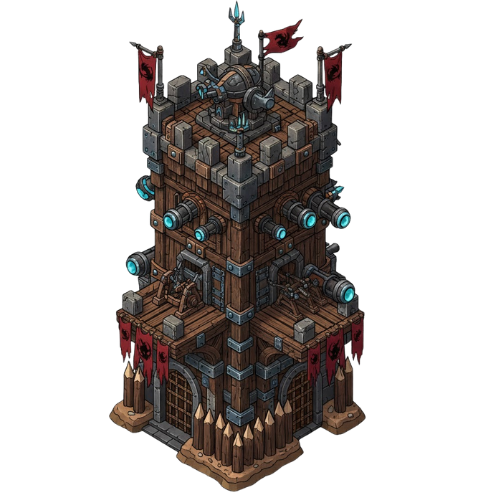
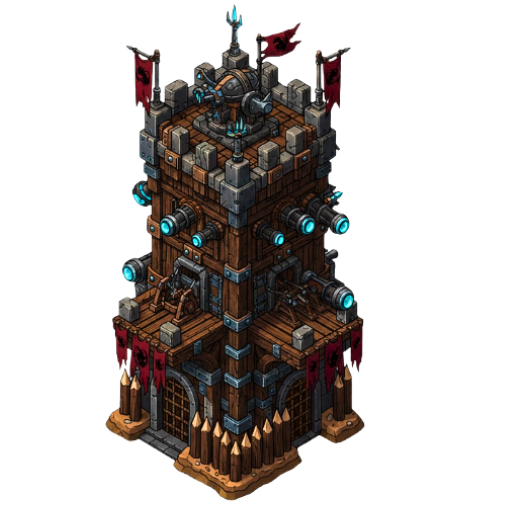
City layout improvements and building positions

Changed region(s): [[0.21, 0.0, 0.75, 0.99]]

diff --git a/index.html b/index.html
@@ -116,6 +116,9 @@
   position: relative;
   overflow: hidden;
 }
+#city-map-container {
+  background: #121a2f;
+}
 
 
 .right-arrow-menu {
@@ -6098,32 +6101,34 @@ function enterCity() {
     cityMapContainer.style.top = "80px";
     cityMapContainer.style.left = "0";
     cityMapContainer.style.right = "0";
-    cityMapContainer.style.bottom = "60px";
+    cityMapContainer.style.height = "calc(100vh - 140px)";
     cityMapContainer.style.overflowY = "auto";
     cityMapContainer.style.overflowX = "hidden";
     cityScreen.appendChild(cityMapContainer);
   }
 
-  if (!document.getElementById("city-bg")) {
-    const cityMap = document.createElement("img");
-    cityMap.id = "city-bg";
-    cityMap.src = "city-bg.png";
-    cityMap.style.width = "100%";
-    cityMap.style.height = "1000px";
-    cityMap.style.minHeight = "1000px";
-    cityMap.style.objectFit = "fill";
-    cityMap.style.position = "relative";
-    cityMap.style.display = "block";
-    cityMapContainer.appendChild(cityMap);
+if (!document.getElementById("city-bg")) {
+  const cityMap = document.createElement("img");
+  cityMap.id = "city-bg";
+  cityMap.src = "city-bg.png";
+  cityMap.style.width = "100%";
+  cityMap.style.height = "1000px";
+  cityMap.style.objectFit = "cover";
+  cityMap.style.display = "block";
+  cityMap.style.position = "relative";
+  cityMapContainer.appendChild(cityMap);
+
+
+
 
 
    // القلعة في النص
 const castleWrapper = document.createElement("div");
 castleWrapper.id = "castle-building";
 castleWrapper.style.position = "absolute";
-castleWrapper.style.width = "170px";
+castleWrapper.style.width = "210px";
 castleWrapper.style.left = "50%";
-castleWrapper.style.top = "55%";
+castleWrapper.style.top = "58%";
 castleWrapper.style.transform = "translate(-50%, -50%)";
 castleWrapper.style.zIndex = 100;
 
@@ -6158,17 +6163,17 @@ cityMapContainer.appendChild(castleWrapper);
 
 
 const buildingPositions = [
-  { left: "25%", top: "25%" },  // 1 - منجم الذهب
-  { left: "65%", top: "20%" },  // 2 - منجم الخشب
-  { left: "15%", top: "55%" },  // 3 - المدرسة
-  { left: "85%", top: "55%" },  // 4 - برج الهجوم
-  { left: "20%", top: "35%" },  // 5 - برج الدفاع
-  { left: "80%", top: "35%" },  // 6 - مزرعة اللحم
-  { left: "20%", top: "115%" }, // 7 - قاعة الأبطال
-  { left: "50%", top: "110%" }, // 8 - السوق
-  { left: "80%", top: "115%" }, // 9 - برج البوست
-  { left: "30%", top: "145%" }, // 10 - المستشفى
-  { left: "70%", top: "145%" }, // 11 - برج التنانين
+  { left: "80%", top: "45%" },  // 1 - منجم الذهب
+  { left: "19%", top: "105%" },  // 2 - منجم الخشب
+  { left: "81%", top: "78%" },  // 3 - المدرسة
+  { left: "75%", top: "19%" },  // 4 - برج الهجوم
+  { left: "25%", top: "18%" },  // 5 - برج الدفاع
+  { left: "23%", top: "42%" },  // 6 - مزرعة اللحم
+  { left: "20%", top: "81%" }, // 7 - قاعة الأبطال
+  { left: "70%", top: "125%" }, // 8 - السوق
+  { left: "84%", top: "105%" }, // 9 - برج البوست
+  { left: "26%", top: "126%" }, // 10 - المستشفى
+{ left: "51%", top: "97%" }, // 11 - برج التنانين
 ];
 
 
@@ -6242,8 +6247,8 @@ const goldMine = document.getElementById("building-1");
 if (goldMine) {
   goldMine.style.border = "none";
   goldMine.style.background = "transparent";
-  goldMine.style.width = "120px";
-  goldMine.style.height = "140px";
+  goldMine.style.width = "130px";
+  goldMine.style.height = "150px";
   goldMine.style.position = "absolute";
   goldMine.style.left = buildingPositions[0].left;
   goldMine.style.top = buildingPositions[0].top;
@@ -6377,8 +6382,8 @@ if (woodMine) {
 
   woodMine.style.border = "none";
   woodMine.style.background = "transparent";
-  woodMine.style.width = "120px";
-  woodMine.style.height = "140px";
+  woodMine.style.width = "170px";
+  woodMine.style.height = "150px";
   woodMine.style.position = "absolute";
   woodMine.style.left = buildingPositions[1].left;
   woodMine.style.top = buildingPositions[1].top;
@@ -6521,7 +6526,7 @@ if (school) {
 
   school.style.border = "none";
   school.style.background = "transparent";
-  school.style.width = "100px";
+  school.style.width = "160px";
   school.style.height = "160px";
   school.style.position = "absolute";
   school.style.left = buildingPositions[2].left;
@@ -6637,8 +6642,8 @@ if (attackTower) {
 
   attackTower.style.border = "none";
   attackTower.style.background = "transparent";
-  attackTower.style.width = "200px";
-  attackTower.style.height = "180px";
+  attackTower.style.width = "240px";
+  attackTower.style.height = "200px";
   attackTower.style.position = "absolute";
   attackTower.style.left = buildingPositions[3].left;
   attackTower.style.top = buildingPositions[3].top;
@@ -6758,8 +6763,8 @@ if (defenseTower) {
 
   defenseTower.style.border = "none";
   defenseTower.style.background = "transparent";
-  defenseTower.style.width = "200px";
-  defenseTower.style.height = "180px";
+  defenseTower.style.width = "220px";
+  defenseTower.style.height = "200px";
   defenseTower.style.position = "absolute";
   defenseTower.style.left = buildingPositions[4].left;
   defenseTower.style.top = buildingPositions[4].top;
@@ -6873,8 +6878,8 @@ if (meatFarm) {
 
   meatFarm.style.border = "none";
   meatFarm.style.background = "transparent";
-  meatFarm.style.width = "170px";
-  meatFarm.style.height = "170px";
+  meatFarm.style.width = "180px";
+  meatFarm.style.height = "180px";
   meatFarm.style.position = "absolute";
   meatFarm.style.left = buildingPositions[5].left;
   meatFarm.style.top = buildingPositions[5].top;
@@ -7014,8 +7019,8 @@ if (heroesHall) {
 
   heroesHall.style.border = "none";
   heroesHall.style.background = "transparent";
-  heroesHall.style.width = "140px";
-  heroesHall.style.height = "160px";
+  heroesHall.style.width = "180px";
+  heroesHall.style.height = "200px";
   heroesHall.style.position = "absolute";
   heroesHall.style.left = buildingPositions[6].left;
   heroesHall.style.top = buildingPositions[6].top;
@@ -7133,8 +7138,8 @@ if (market) {
 
   market.style.border = "none";
   market.style.background = "transparent";
-  market.style.width = "120px";
-  market.style.height = "140px";
+  market.style.width = "180px";
+  market.style.height = "200px";
   market.style.position = "absolute";
   market.style.left = buildingPositions[7].left;
   market.style.top = buildingPositions[7].top;
@@ -7253,8 +7258,8 @@ if (booster) {
 
   booster.style.border = "none";
   booster.style.background = "transparent";
-  booster.style.width = "120px";
-  booster.style.height = "140px";
+  booster.style.width = "130px";
+  booster.style.height = "130px";
   booster.style.position = "absolute";
   booster.style.left = buildingPositions[8].left;
   booster.style.top = buildingPositions[8].top;
@@ -7371,8 +7376,8 @@ if (hospital) {
 
   hospital.style.border = "none";
   hospital.style.background = "transparent";
-  hospital.style.width = "120px";
-  hospital.style.height = "140px";
+  hospital.style.width = "195px";
+  hospital.style.height = "175px";
   hospital.style.position = "absolute";
   hospital.style.left = buildingPositions[9].left;
   hospital.style.top = buildingPositions[9].top;
@@ -7487,8 +7492,8 @@ if (dragonTowerEl) {
 
   dragonTowerEl.style.border = "none";
   dragonTowerEl.style.background = "transparent";
-  dragonTowerEl.style.width = "140px";
-  dragonTowerEl.style.height = "160px";
+  dragonTowerEl.style.width = "190px";
+  dragonTowerEl.style.height = "190px";
   dragonTowerEl.style.position = "absolute";
   dragonTowerEl.style.left = buildingPositions[10].left;  // index 10 = المبنى 11
   dragonTowerEl.style.top = buildingPositions[10].top;
